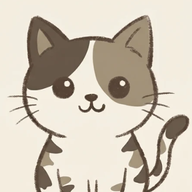
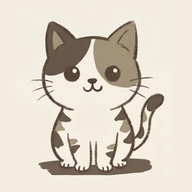
style: 預設狗、貓頭像改為完整顯示整張插圖

diff --git a/src/main/resources/static/liff/index.html b/src/main/resources/static/liff/index.html
@@ -730,8 +730,8 @@
 
       // 沒有照片時依物種顯示預設頭像（狗、貓為插圖，其他物種為腳掌圖示）
       const PET_ICONS = {
-        DOG: '<img class="avatar-default" src="/liff/img/pet-dog.png?v=1" alt="" />',
-        CAT: '<img class="avatar-default" src="/liff/img/pet-cat.png?v=1" alt="" />',
+        DOG: '<img class="avatar-default" src="/liff/img/pet-dog.png?v=2" alt="" />',
+        CAT: '<img class="avatar-default" src="/liff/img/pet-cat.png?v=2" alt="" />',
         OTHER:
           '<svg viewBox="0 0 24 24" fill="currentColor" stroke="none">' +
           '<ellipse cx="7" cy="9.5" rx="1.9" ry="2.4"/><ellipse cx="17" cy="9.5" rx="1.9" ry="2.4"/>' +
